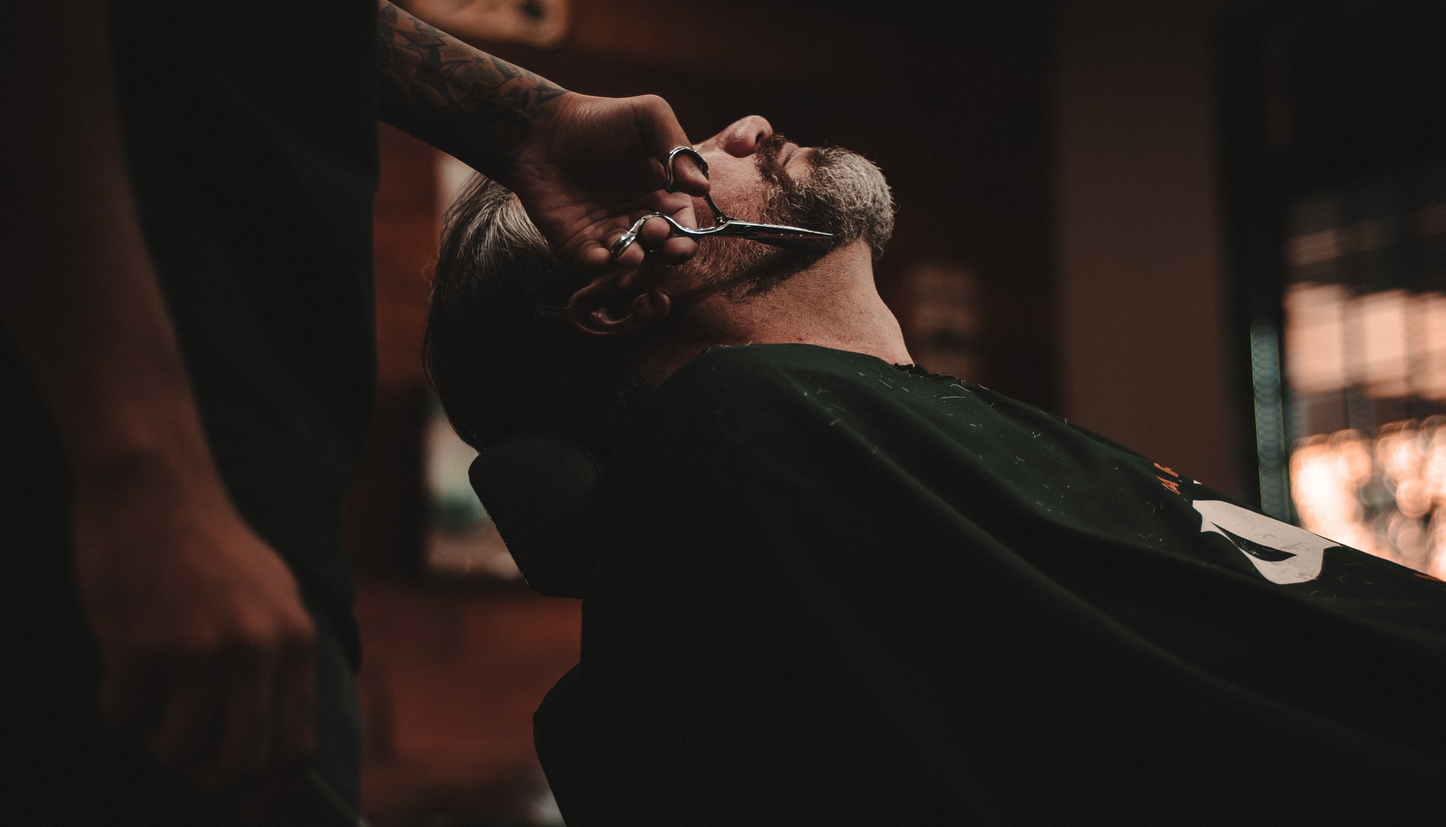
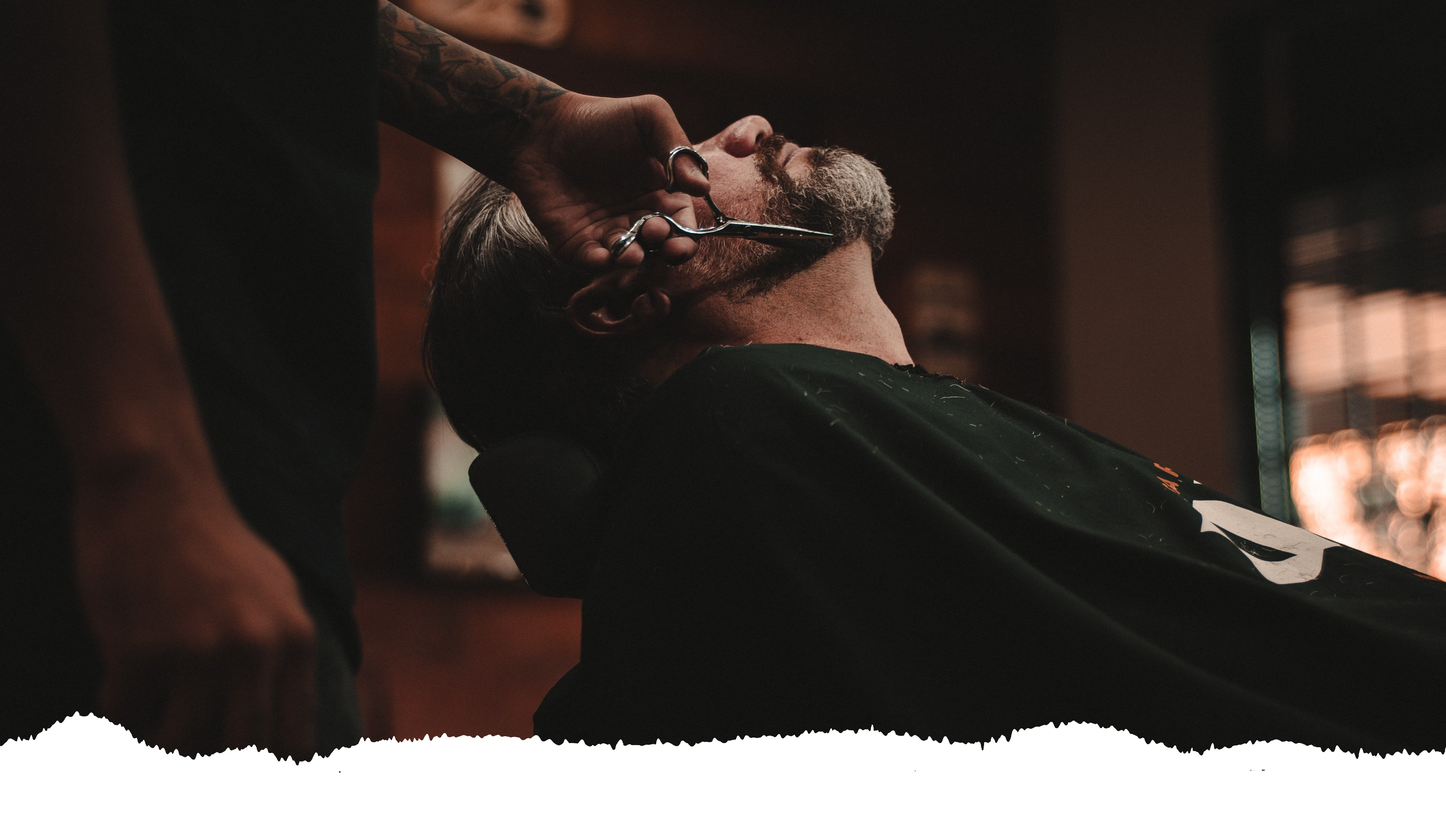
hero: cut paper image

Changed region(s): [[0.0, 0.8671, 1.0, 1.0]]

diff --git a/web/css/styles.css b/web/css/styles.css
@@ -43,13 +43,15 @@ a {
 }
 
 .regular-width {
-  max-width: 1000px;
+  max-width: 900px;
   margin: 0 auto;
+  width: 100%;
 }
 
 .full-width {
   max-width: 100%;
   margin: 0 auto;
+  width: 100%;
 }
 
 h1, h2, h3, h4, h5, h6, .title {
@@ -162,7 +164,7 @@ section.hero .bg {
   top: 0;
   left: 0;
   z-index: -1;
-  filter: grayscale(7);
+  filter: grayscale(5);
   opacity: 0.9;
 }
 section.hero .text {

diff --git a/web/css/_base.sass b/web/css/_base.sass
@@ -42,12 +42,14 @@ a
     color: $color_a
 
 .regular-width
-    max-width: 1000px
+    max-width: 900px
     margin: 0 auto
+    width: 100%
 
 .full-width
     max-width: 100%
     margin: 0 auto
+    width: 100%
 
 h1, h2, h3, h4, h5, h6, .title
     font-family: 'Dancing Script', cursive

diff --git a/web/css/_hero.sass b/web/css/_hero.sass
@@ -8,7 +8,7 @@ section.hero
         top: 0 
         left: 0
         z-index: -1
-        filter: grayscale(7)
+        filter: grayscale(5)
         opacity: 0.9
 
 
